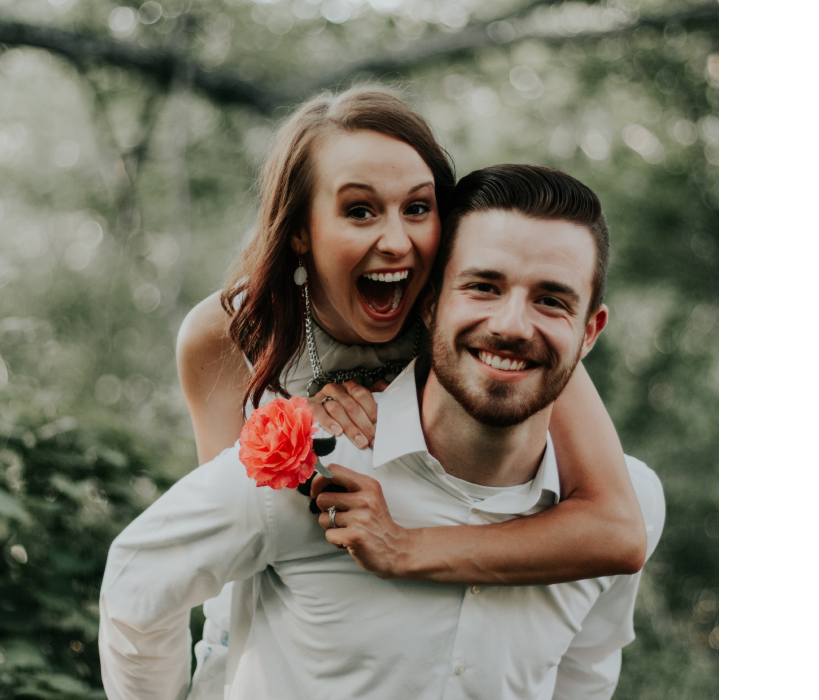
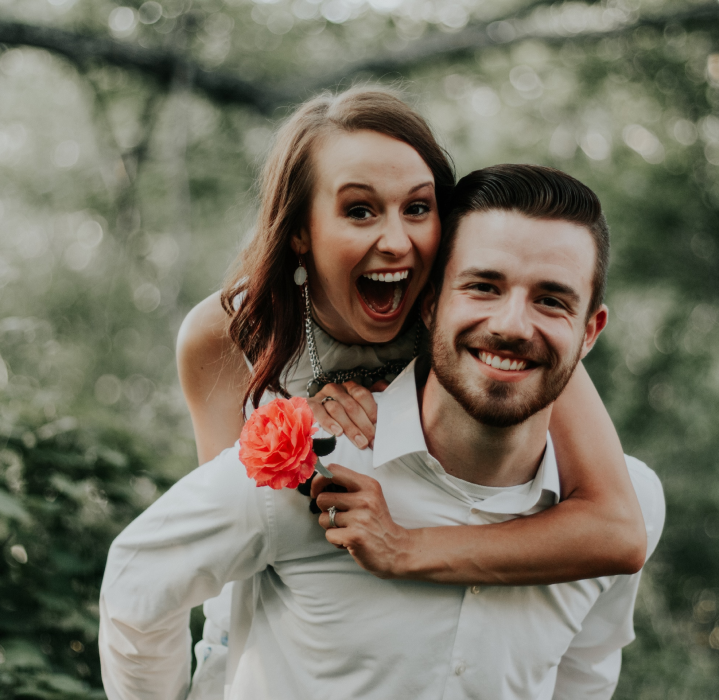
css

diff --git a/index.html b/index.html
@@ -26,49 +26,75 @@
 	<main>
 	<section class="findgift">
 		<div class="findgift-flex">
-		<h2>Find a gift for your wife or girlfriend</h2>
-		<p>Struggling to find a gift for your wife or girlfriend? No problem!</p>
-		<button>Find gift now</button>
+		<h2 class="findgift-h2">Find a gift for your wife or girlfriend</h2>
+		<p class="findgift-p">Struggling to find a gift for your wife or girlfriend? No problem!</p>
+		<button class="findgift-button">Find gift now</button>
 		</div>
-		<img class="menwomen" src="123123123">
+		<img class="menwomen" src="img\menwomen.png">
 	</section>
 	<section class="ourwork">
-		<img src="123">
-		<h2>How we work</h2>
-		<p>We've actually already asked hundreads of women what they want, and made a database with the results. All you have to do is take our short survey that only takes seconds, and our proprietary algorithm will match you with a few perfect gift options.</p>
-		<button>Learn more</button>
+		<img class="ourwork-img" src="img\thanks.png">
+		<div class="ourwork-div">
+		<h2 class="ourwork-h2">How we work</h2>
+		<p class="ourwork-p">We've actually already asked hundreads of women what they want, and made a database with the results. All you have to do is take our short survey that only takes seconds, and our proprietary algorithm will match you with a few perfect gift options.</p>
+		<button class="ourwork-button">Learn more</button>
+		</div>
 	</section>
 	<section class="occasion">
-		<h2>Gifts for all Occasions</h2>
-		<p>"Try our web app to find the best gifts for all occasions"</p>
-		<ul>
-			<li>
+		<h2 class="occasion-h2">Gifts for all Occasions</h2>
+		<p class="occasion-p">"Try our web app to find the best gifts for all occasions"</p>
+		<ul class="occasion-list">
+			<li class="occasion-items">
+				<a href="#">
+				<img src="img\birthday.png">
+				<div class="name-see">
 				<p>Birthday</p>
-				<img src="123">
+				<a href="#" class="occasion-seemore"> See More ></a>
+				</div>
+				</a>
 			</li>
-			<li>
+			<li class="occasion-items">
+				<a href="#">
+				<img src="img\anniversary.png">
+				<div class="name-see">
 				<p>Anniversary</p>
-				<img src="123">
+				<a href="#" class="occasion-seemore"> See More ></a>
+				</div>
+				</a>
 			</li>
-			<li>
+			<li class="occasion-items">
+				<a href="#">
+				<img src="img\valentine.png">
+				<div class="name-see">
 				<p>Valentine's Day</p>
-				<img src="123">
+				<a href="#" class="occasion-seemore"> See More ></a>
+				</div>
+				</a>
 			</li>
-			<li>
+			<li class="occasion-items">
+				<a href="#">
+				<img src="img\xmas.png">
+				<div class="name-see">
 				<p>Chrismas</p>
-				<img src="123">
+				<a href="#" class="occasion-seemore"> See More ></a>
+				</div>
+				</a>
 			</li>
 		</ul>
 	</section>
 	<section class="ready">
-		<h2>Ready to get stared?</h2>
-		<p>Sign up or contact us</p>
-		<button>Find gift now</button>
-		<button>How it works</button>
+		<div class="ready-text">
+		<a href="#"><h2 class="ready-h2">Ready to get stared?</h2></a>
+		<a href="#"><p class="ready-p">Sign up or contact us</p></a>
+		</div>
+		<div class="ready-but">
+		<button class="ready-but1">Find gift now</button>
+		<button class="ready-but2">How it works</button>
+		</div>
 	</section>
 	<section class="bestblogs">
-		<h2>Our best blogs ever</h2>
-		<p>"Try our blog to find the best tips and tricks to select your gift"</p>
+		<h2 class="bestblogs-h2">Our best blogs ever</h2>
+		<p class="bestblogs-p">"Try our blog to find the best tips and tricks to select your gift"</p>
 	</section>
 	<section class="comment">
 		<img src="123">

diff --git a/css/style.css b/css/style.css
@@ -8,11 +8,22 @@ body {
 
 a{
 	text-decoration: none;
-
  }
+
  *{
  	box-sizing: border-box;
  }
+button{
+	min-width: 140px;
+	height: 38px;
+	border-radius: 5px;
+	background:none;
+	line-height: 22px;
+	margin-right: 34px;
+	text-transform: uppercase;
+	padding: 0;
+	cursor:pointer;
+}
 .headnavigation a{
 	color: #000000;
 }
@@ -22,23 +33,8 @@ a{
 	margin: 0 auto;
 }
 .head-nav-button{
-	min-width: 140px;
-	height: 38px;
-	border-radius: 5px;
-	background:none;
 	border: 1px solid #F7941E;
 	color: #F7941E;
-	font-size: 18px;
-	line-height: 22px;
-	margin-right: 34px;
-	text-transform: uppercase;
-	padding: 0;
-}
-.head-nav-button:hover{
-	cursor: pointer;
-}
-.head-nav-button:focus{
-	outline: none;
 }
 .head-logo {
 	width: 41px;
@@ -50,7 +46,6 @@ a{
 	list-style: none;
 	margin:0; 
 	padding: 0;
-	display: inline-block;
 
 }
 .headnavigation-list li {
@@ -68,22 +63,155 @@ a{
 }
 
 /* Шапка конец */
+/* Основной контент */
+/* подарочки */
 .findgift{
 	display: flex;
+	background-color: #F1F1F2;
 }
 .menwomen{
 	order: 2;
+	width: 710px;
+}
+.findgift-h2{
+	font-size: 56px;
+	line-height: 69px;
+	margin-bottom: 36px;
+
+}
+.findgift-p{
+	font-size: 20px;
+	line-height: 28px;
+	margin-bottom: 52px;
 }
 
-.findgift-flex{
-/* 	display: flex;
-direction: column;
-align-items: center; */
+.findgift-flex{ 
+	margin-right: auto;
+	margin-left: auto; 
+	margin-top: auto;
+	margin-bottom: auto;
+	width: 433px;
 }
+.findgift-button{
+	border: none;
+	color: #ffffff;
+	background-color: #F7941E;
+}
+/* подарочки конец */
+/* наша работа */
 .ourwork{
+	display: flex;
+	background-color: #F1F1F2;
+	margin-bottom: 70px;
+}
+.ourwork-img{
+	width: 639px;
+}
+.ourwork-div{
+	margin-right: auto;
+	margin-left:auto;
+	margin-top: auto;
+	margin-bottom:auto;
+	width: 441px;
+}
+.ourwork-h2{
+	font-size: 32px;
+	line-height: 45px;
+	margin-bottom: 23px;
+}
+.ourwork-p{
+	font-size: 20px;
+	line-height: 28px;
+	margin-bottom: 35px;
+	}
+.ourwork-button{
+	border: 1px solid #F7941E;
+	color: #F7941E;
+}
+/* причины */
+
+.occasion-h2{
+	text-align: center;
+	font-size: 32px;
+	line-height: 38px;
+}
+.occasion-p{
+	text-align: center;
+	font-size: 18px;
+	line-height: 24px;
+}
+.occasion-list{
+	list-style: none;
+	padding: 30px;
+	font-size: 20px;
+	line-height: 24px;
+	display: flex;
+	justify-content: center;
+}	
+.occasion-list a{
+	color: #000000;
+}
+.occasion-seemore{
+	display: inline-block;
+	margin-top: 74px;
+	font-size: 14px;
+	line-height: 19px;
+}
+.occasion-items{
+	background-color: #FAFAFA;
+	margin-right: 35px;
 
 }
-.occasion{
-
-
+.occasion-items:hover{
+	background-color: #ffffff;
+	box-shadow: 0 5px 15px rgba(0, 0, 0, 0.3);
+}
+.name-see{
+	margin: 24px;
+}
+/* наша работа */
+/* реди */
+.ready{
+	display: flex;
+	justify-content: space-around;
+	background-color: #F7941E;
+}
+.ready-h2{
+	font-size: 32px;
+	line-height: 45px;
+	font-weight: bold;
+	margin-bottom: 0;
+}
+.ready-p{
+	font-size: 32px;
+	line-height: 45px;	
+	margin-top: 0;
+}
+.ready-but{
+	display: flex;
+	align-items: center;
+}
+.ready-but1{
+	background-color: #231F20;
+	color: #ffffff;
+	border: 1px solid #231F20;
+}
+.ready-but2{
+	background-color: transparent;
+	color: #231F20;
+	border: 1px solid #231F20;
+}
+.ready-text a{
+	color: #000000;
+}
+/* нашблог */
+.bestblogs-h2{
+	text-align: center;
+	font-size: 32px;
+	line-height: 38px;
+}
+.bestblogs-p{
+	text-align: center;
+	font-size: 18px;
+	line-height: 24px;
 }
